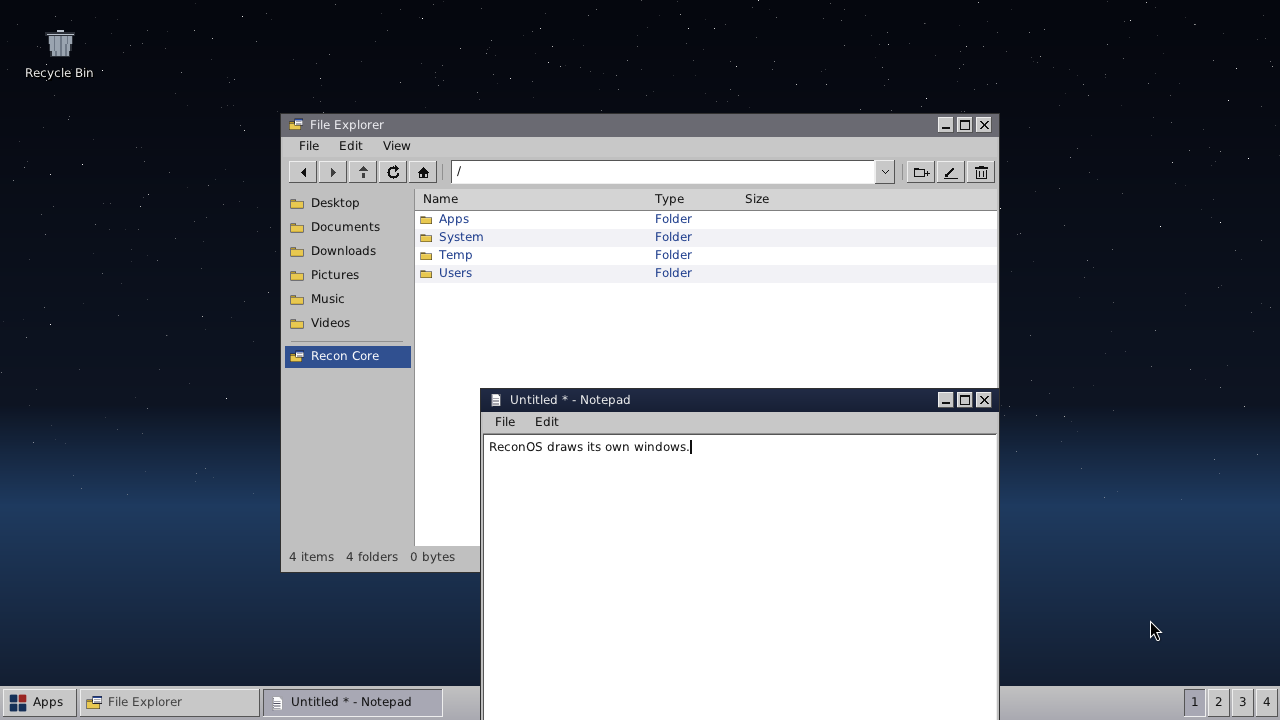
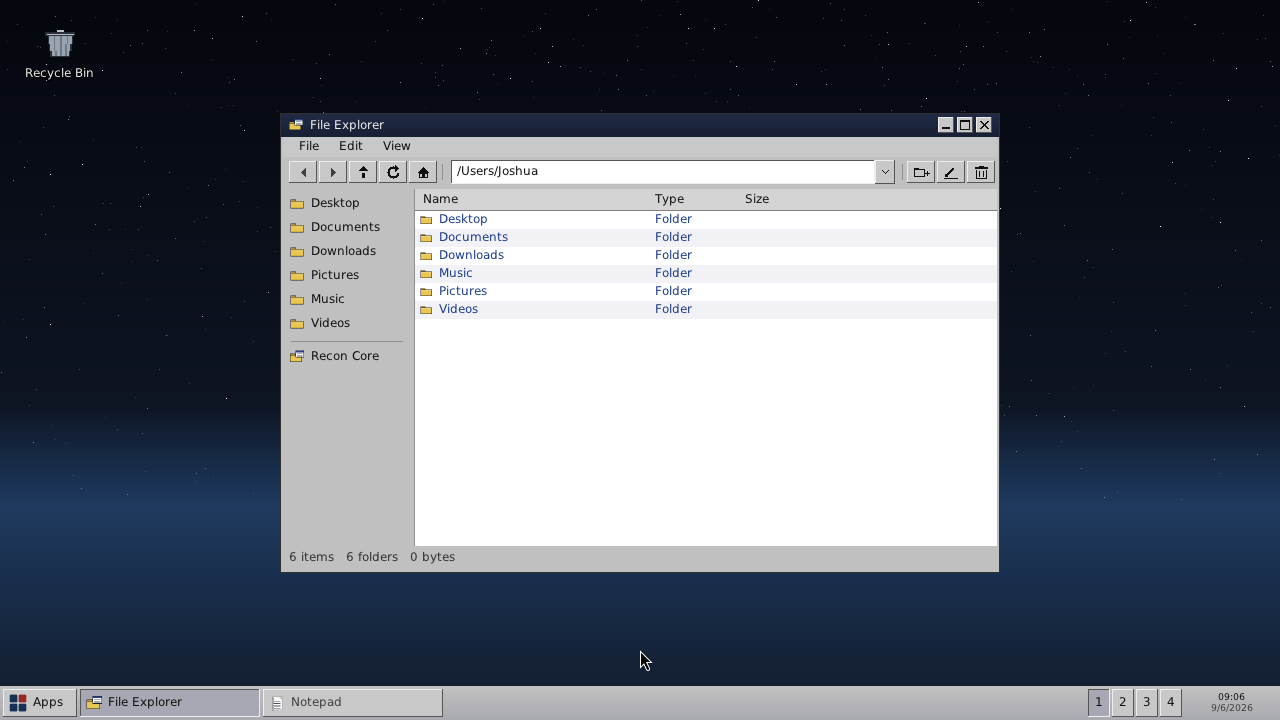
Screenshots of what it is now, small enough to scan
Twelve captures of the current build, replacing seven from an older one. They
are laid out as a grid of thumbnails that open full size when clicked, because
seven full-width pictures is a page somebody scrolls past rather than reads.

Each was taken on its own freshly booted desktop. The first attempt posed one
system six ways and closed windows between shots; the closing did not work, and
every picture after the first had the previous shot's windows in it. Rather
than work out why the shortcut did not fire, one boot per picture removes the
question -- nothing is left over because nothing came before.

Two things the harness got wrong and the pictures showed:

  - a skin NAMES a wallpaper and restyling reloads it, so setting the picture
    first and the skin second put the skin's own choice back. The first set was
    photographed over the wrong wallpaper on every shot.
  - two `ui click` commands are two socket connections about a second apart,
    which is longer than the double-click window, so a Control Panel icon
    highlighted and nothing opened. Both clicks now go down one connection.
    The socket's own comment says this; I read it afterwards.

Same set copied to the Recon Towers site with a note describing each, for the
Workshop bench page.

diff --git a/README.md b/README.md
@@ -6,8 +6,8 @@ somebody else's.**
 [![version](https://img.shields.io/badge/version-0.3.1_in_progress-1f6feb?style=flat-square)](https://github.com/neogentrics/ReconOS/releases)
 [![release](https://img.shields.io/badge/latest_release-v0.2.17-238636?style=flat-square)](https://github.com/neogentrics/ReconOS/releases/tag/v0.2.17)
 [![language](https://img.shields.io/badge/C11-555?style=flat-square)](#building)
-[![tests](https://img.shields.io/badge/tests-14_suites-238636?style=flat-square)](#tests)
-[![bugs](https://img.shields.io/badge/bugs_recorded-105-da3633?style=flat-square)](docs/BUGS.md)
+[![tests](https://img.shields.io/badge/tests-15_suites-238636?style=flat-square)](#tests)
+[![bugs](https://img.shields.io/badge/bugs_recorded-106-da3633?style=flat-square)](docs/BUGS.md)
 [![licence](https://img.shields.io/badge/licence-CC0--1.0-555?style=flat-square)](LICENSE.txt)
 
 ---
@@ -70,7 +70,7 @@ written down as it was hit rather than guessed at in advance.
 | **Applications** | File Explorer, Notepad, Terminal, Watchtower, Mail, Web, Media Player, Photos, Calendar, Calculator, Control Panel, Help |
 | **Skins** | eleven, including one see-through in six colours, three for colour vision and one for reading |
 | **Accounts** | real ones, with roles — enforced by ReconOS inside ReconOS, and honestly labelled as such |
-| **Tests** | 15 suites, no display needed |
+| **Tests** | 15 suites, 908 checks, no display needed |
 
 Everything here works and is tested. What is *not* here is listed plainly —
 in the Control Panel itself, page by page, and in
@@ -137,55 +137,65 @@ about it. Every entry is also a
 
 ## What it looks like
 
-Every one of these is a real screen capture of a running ReconOS, taken by
-ReconOS's own `capture` command with the system driven over its control
-socket. Nothing here is a mock-up, and nothing is arranged by hand -- the
-script that takes them is the same harness the tests use, so a picture that
-stops being true stops being taken.
+Every one is a real screen capture of a running ReconOS, taken by ReconOS's own
+`capture` command with the system driven over its control socket. Nothing here
+is a mock-up and nothing is arranged by hand -- the script that takes them is
+the same harness the tests use, so a picture that stops being true stops being
+taken. Each was captured on its own freshly booted desktop, so nothing from the
+shot before it is left in the frame.
 
-![The desktop, with the Start menu open](docs/images/desktop.png)
+**Click any of them for the full-size image.**
 
-The desktop and the Start menu: pinned programs on the left, the places that
-belong to the account on the right, All Programs with a fly-out beside it, and
-a search box in the footer. The bar along the bottom carries one button per
-window and four desktops at the right end.
-
-![The Control Panel](docs/images/control-panel.png)
-
-The Control Panel is fourteen icons. Clicking one opens it in a window of its
-own, named for the item and stepped clear of whatever opened it, so two
-settings can be worked on side by side. Hovering one says what it is for.
-
-![Appearance](docs/images/appearance.png)
-
-Ten skins ship, including three for colour vision and one for reading. A skin
-sets forty-eight semantic roles, the shape of a window frame, and a wallpaper.
-Any of them can be copied and changed; none of them can be deleted, because a
-preset that can be deleted is gone with nowhere to get it back from.
-
-![Two windows at once](docs/images/explorer.png)
-
-ReconOS draws its own windows: the frames, the title bars, the buttons, the
-menus. The File Explorer is looking at the root of the ReconOS filesystem,
-which is a real directory tree on disk.
-
-![The firewall](docs/images/firewall.png)
-
-A rule list rather than a page about one -- consulted in order, first match
-decides, and the ports most people would want are already written down and
-switched off. The rules are a text file, and the same list is reachable from
-the terminal.
-
-![Network](docs/images/network.png)
-
-Network in four sections. This is Adapters: every interface the host has, and
-for the one picked, its address, netmask, state and kind.
-
-![System Information](docs/images/system-information.png)
-
-What the machine is, what ReconOS is, and what is underneath -- three groups,
-kept apart on purpose, because the third is what explains how the first is
-readable at all.
+<table>
+<tr>
+<td width="50%"><a href="docs/images/desktop.png"><img src="docs/images/thumbs/desktop.png" alt="Two windows on the desktop, Glass skin"></a></td>
+<td width="50%"><a href="docs/images/menu.png"><img src="docs/images/thumbs/menu.png" alt="The Apps menu, open over a window"></a></td>
+</tr>
+<tr>
+<td><b>The desktop.</b> Two windows over a wallpaper made for this system, in the see-through Glass skin -- the Calculator's title bar has the Notepad behind it.</td>
+<td><b>The Apps menu.</b> Pinned programs on the left, the account's own places on the right, All Programs with a fly-out beside it, a search box in the footer. The Notepad's text reads straight through the panel.</td>
+</tr>
+<tr>
+<td><a href="docs/images/control-panel.png"><img src="docs/images/thumbs/control-panel.png" alt="The Control Panel"></a></td>
+<td><a href="docs/images/appearance.png"><img src="docs/images/thumbs/appearance.png" alt="Appearance"></a></td>
+</tr>
+<tr>
+<td><b>The Control Panel</b> is sixteen icons. Each opens in a window of its own, named for the item and stepped clear of whatever opened it, so two settings can be worked on side by side.</td>
+<td><b>Appearance.</b> Eleven skins, including three for colour vision and one for reading. A skin sets forty-eight semantic roles, the shape of a window frame, and a wallpaper. Any can be copied and changed; none can be deleted.</td>
+</tr>
+<tr>
+<td><a href="docs/images/photos.png"><img src="docs/images/thumbs/photos.png" alt="Photos, with Read Text and Save as PNG"></a></td>
+<td><a href="docs/images/taskbar.png"><img src="docs/images/thumbs/taskbar.png" alt="The taskbar's three window states"></a></td>
+</tr>
+<tr>
+<td><b>Photos</b>, and the two newest things it can do. <b>Read Text</b> pulls the writing out of a picture into a text file. <b>Save as PNG</b> converts any of the seven formats it opens into a lossless one, beside the original.</td>
+<td><b>Three states on one bar.</b> Focused, open behind, and put away -- the put-away one has its contents washed back towards its own button. Every pair differs by at least two things, on all eleven skins.</td>
+</tr>
+<tr>
+<td><a href="docs/images/clock.png"><img src="docs/images/thumbs/clock.png" alt="The clock's menu"></a></td>
+<td><a href="docs/images/explorer.png"><img src="docs/images/thumbs/explorer.png" alt="File Explorer and Notepad"></a></td>
+</tr>
+<tr>
+<td><b>The clock's own menu.</b> Twenty-four hour or twelve, with the one in force marked rather than a single entry that toggles -- a label saying what <i>will</i> happen cannot tell you what <i>is</i> happening.</td>
+<td><b>ReconOS draws its own windows</b>: the frames, the title bars, the buttons, the menus. The File Explorer is looking at the root of the ReconOS filesystem, which is a real directory tree on disk.</td>
+</tr>
+<tr>
+<td><a href="docs/images/network.png"><img src="docs/images/thumbs/network.png" alt="Network"></a></td>
+<td><a href="docs/images/firewall.png"><img src="docs/images/thumbs/firewall.png" alt="The firewall"></a></td>
+</tr>
+<tr>
+<td><b>Network</b> in four sections, and honest about what it is: ReconOS has no network stack of its own yet, and the page says so where somebody would read it.</td>
+<td><b>The firewall</b> is a rule list rather than a page about one -- consulted in order, first match decides, and the ports most people would want are already written down and switched off.</td>
+</tr>
+<tr>
+<td><a href="docs/images/system-information.png"><img src="docs/images/thumbs/system-information.png" alt="System Information"></a></td>
+<td><a href="docs/images/midnight.png"><img src="docs/images/thumbs/midnight.png" alt="The Midnight skin"></a></td>
+</tr>
+<tr>
+<td><b>System Information.</b> What the machine is, what ReconOS is, and what is underneath -- three groups kept apart on purpose, because the third explains how the first is readable at all.</td>
+<td><b>The Midnight skin</b>, with the terminal. The same forty-eight roles, answered darkly.</td>
+</tr>
+</table>
 
 ## What works right now
 

diff --git a/docs/CHANGELOG.md b/docs/CHANGELOG.md
@@ -430,6 +430,31 @@ what it is for: "it looked like part of the window behind" is the beginning of
 every story about somebody approving the wrong thing. Same rule as there being
 no switch to turn a safety check off.
 
+**Four desktops, or one, per account.** Somebody who does not use four desktops
+should not have four buttons taking up the corner of their taskbar. Right-click
+the bar and choose.
+
+Off is genuinely *one desktop*, not four with the buttons hidden, and that
+distinction is the whole design. Hiding the pager while leaving Alt+2 working
+would let somebody arrive on a desktop with nothing on screen saying where they
+are and no button to come back with — a worse place to be than a taskbar with
+four squares on it. Everything that can reach another desktop was already
+guarded by one count, so making that count answer the setting turns the buttons,
+Alt+1..4 and Alt+Shift+1..4 off together, with no second rule to fall out of
+step with the first.
+
+**And everything comes to the desktop you are standing on.** You do not move:
+once there is one desktop it is the one you were already on, so nothing jumps
+and nothing has to be gone looking for. The setting and the windows move in one
+function rather than the registry being written at the call site — after the
+switch there is nothing left to reach a stranded window with.
+
+A screenshot caught the bug the numbers could not. Every reading said "1 of 1"
+and every one was correct, while the corner still held a single square marked
+**1** — the drawing loop is bounded by the count, so answering the setting drew
+one button instead of none. A button saying which of your one desktops you are
+on is the exact clutter the setting exists to remove.
+
 **A put-away window's button recedes into itself.** The last thing asked for on
 the taskbar and not built. `minimized` reached the drawing code, was cast to
 void, and then reached exactly one thing six lines later -- the bevel direction.
